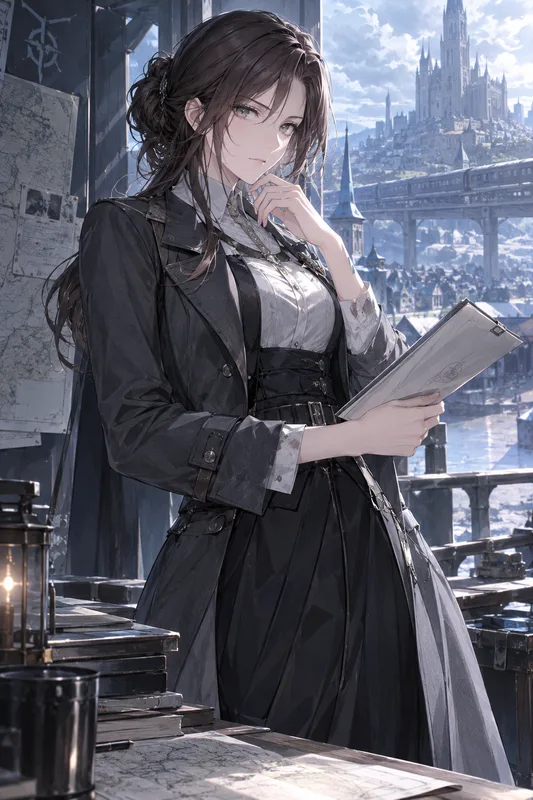
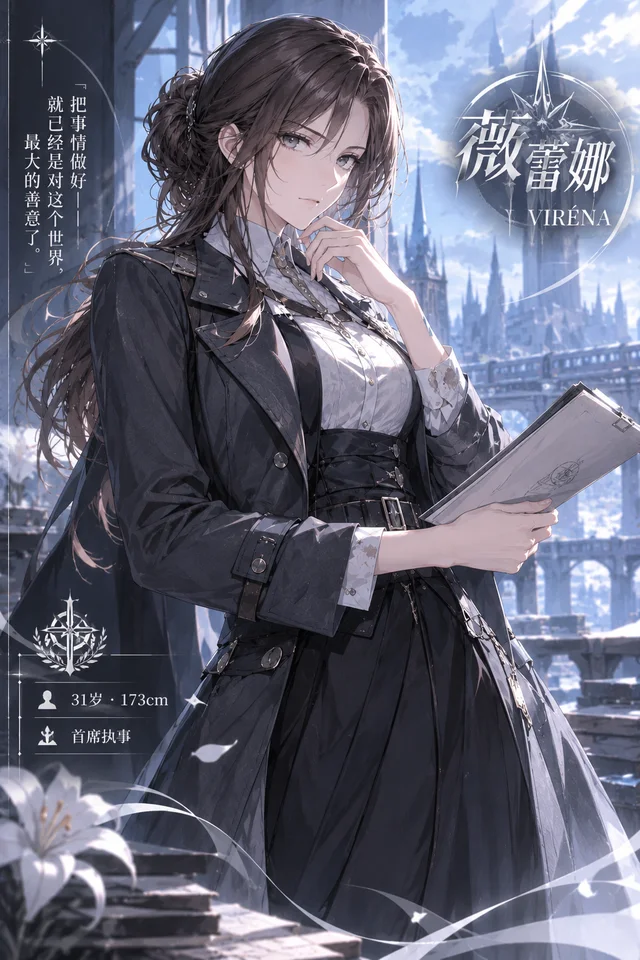
feat: 薇蕾娜换首席执事新图；维罗莎换巡回判官新图并删掉重复的第二张

diff --git a/src/wiki.tsx b/src/wiki.tsx
@@ -297,7 +297,7 @@ const SERLAN_CHARACTERS = [
       '【手续结束，牵挂亦终】受府城销名遗忘影响，一人一旦办结“送走”销名手续，她对此人的牵挂便迅速消退，前一日还在追查，次日便平静劝家属处理遗物。同时长年承受溺水般的窒息感与旧碎片驻留伤处。',
     secret: '极少数知晓并协助伊瑟琳发出“高庭回文”的核心知情人，但完全不知道伊瑟琳正在向眷属转化。',
     imgs: [
-      { label: '立绘 Ⅰ · 总部执事常服', url: '' },
+      { label: '立绘 Ⅰ · 首席执事常服', url: '' },
       { label: '立绘 Ⅱ · 沉渊遗存城防态', url: '' }
     ]
   },
@@ -503,8 +503,7 @@ const SERLAN_CHARACTERS = [
       '【熟稔语气与危险脱节】若重伤或异变者仍以日常平和语气回答，她会误判为寻常不适；反之听见某句曾在灾变现场听过的客套话，却会骤然判定极度危险。长年处于溺水窒息感中。',
     secret: '星旅三《平静水面的倒影》核心人物，玩家助其精准揪出伪善匪首而未误伤无辜住户。',
     imgs: [
-      { label: '立绘 Ⅰ · 巡回判官梅紫长袍', url: '' },
-      { label: '立绘 Ⅱ · 判司廊下', url: '' }
+      { label: '立绘 Ⅰ · 断司巡回判官', url: '' }
     ]
   },
   {

diff --git a/src/charImages.ts b/src/charImages.ts
@@ -13,7 +13,6 @@ import mireya from './assets/characters/mireya.webp';
 import setia1 from './assets/characters/setia.webp';
 import setia2 from './assets/characters/setia-2.webp';
 import verosa1 from './assets/characters/verosa-1.webp';
-import verosa2 from './assets/characters/verosa-2.webp';
 import viola from './assets/characters/viola.webp';
 import mifla from './assets/characters/mifla.webp';
 import lecia from './assets/characters/lecia.webp';
@@ -30,7 +29,7 @@ export const CHAR_IMAGES: Record<string, string[]> = {
   aurena: [aurena],
   mireya: [mireya],
   setia: [setia1, setia2],
-  verosa: [verosa1, verosa2],
+  verosa: [verosa1],
   viola: [viola],
   mifla: [mifla],
   lecia: [lecia],
